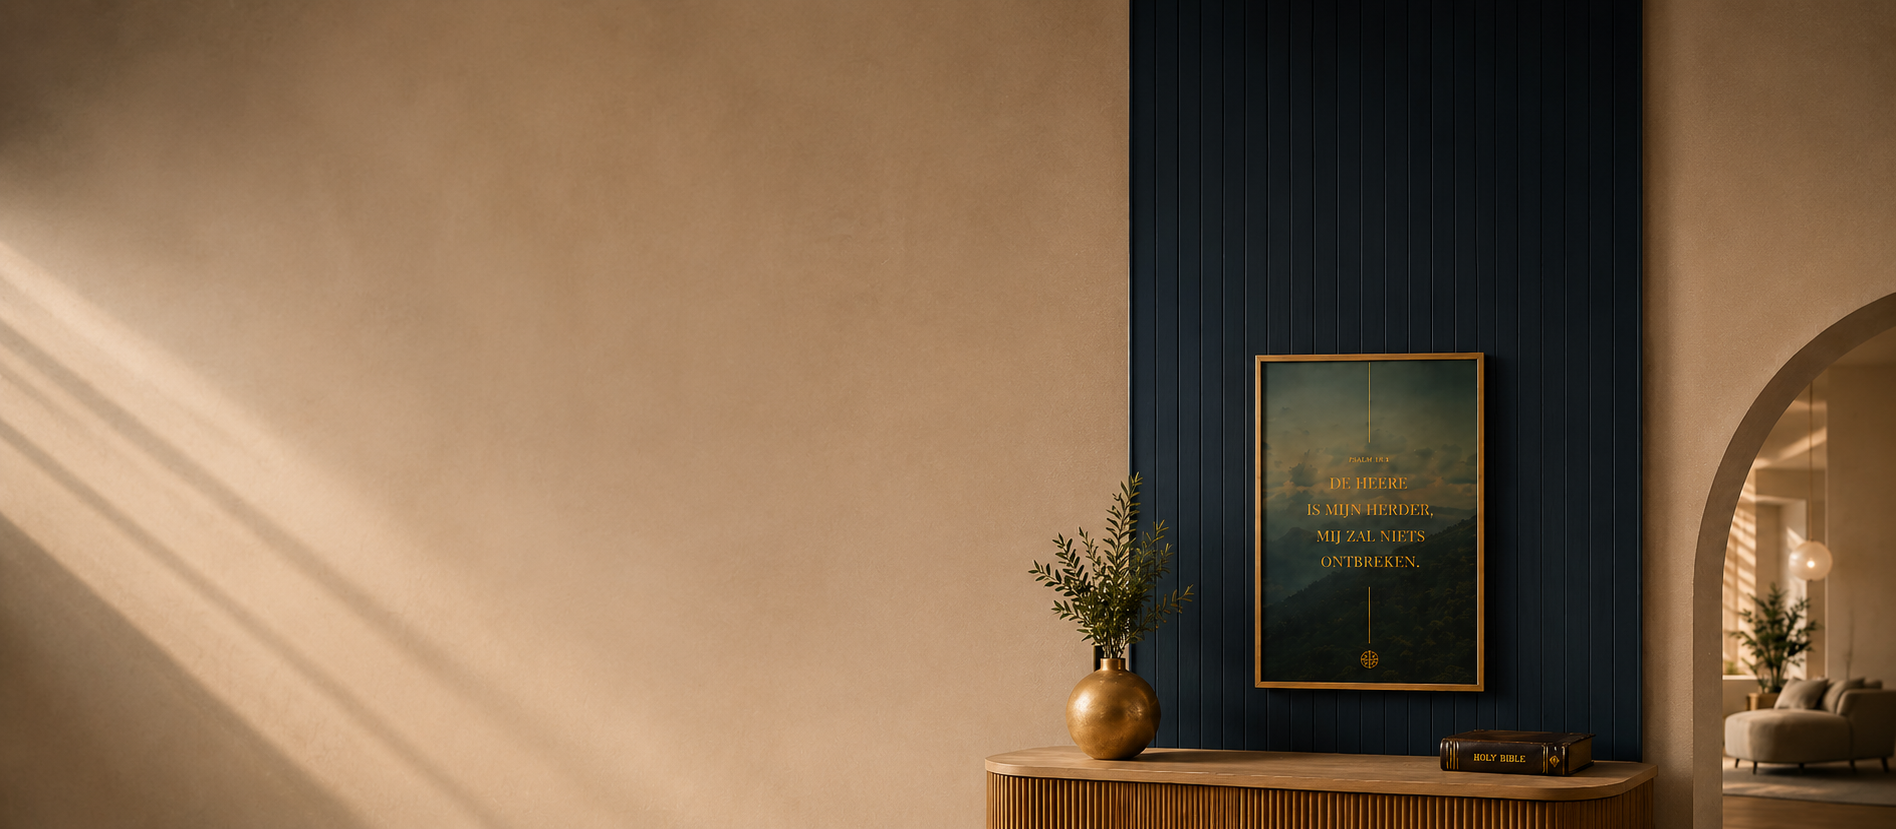
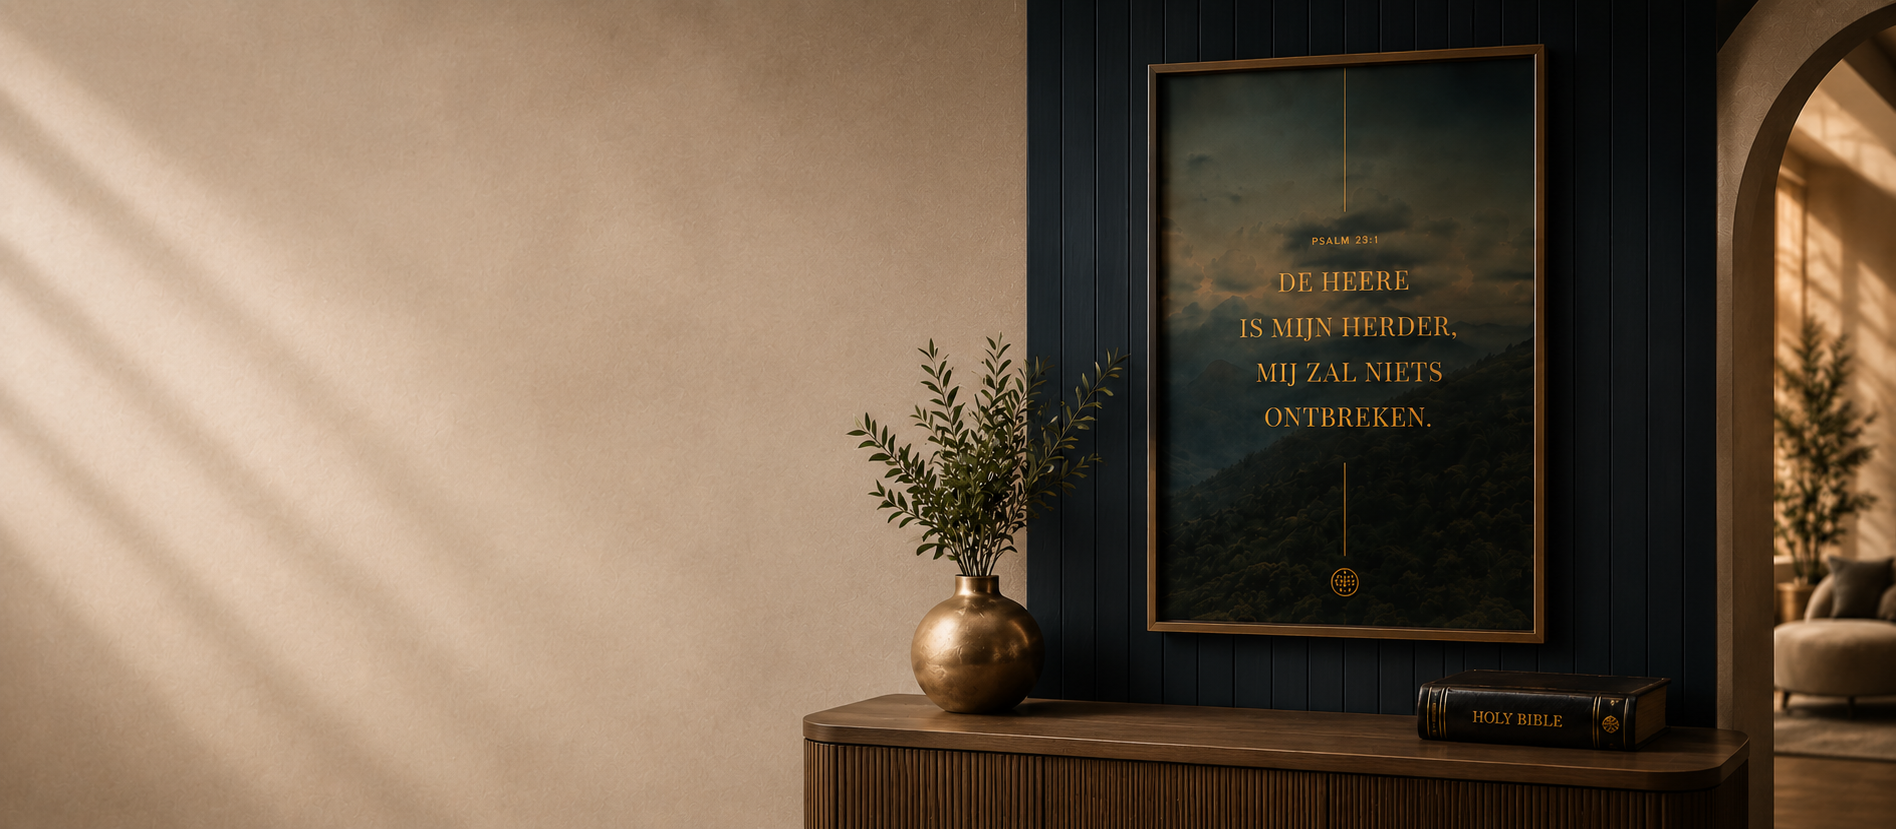
Hero: nieuwe achtergrond + positie bovenkant behouden (15%)

diff --git a/src/components/Hero.tsx b/src/components/Hero.tsx
@@ -16,7 +16,7 @@ export default function Hero() {
         paddingTop: 84,
         backgroundImage: 'url(/images/hero-bg.png)',
         backgroundSize: 'cover',
-        backgroundPosition: 'center center',
+        backgroundPosition: 'center 15%',
       }}
     >
       {/* ── Primary overlay: dark left → transparent right ── */}